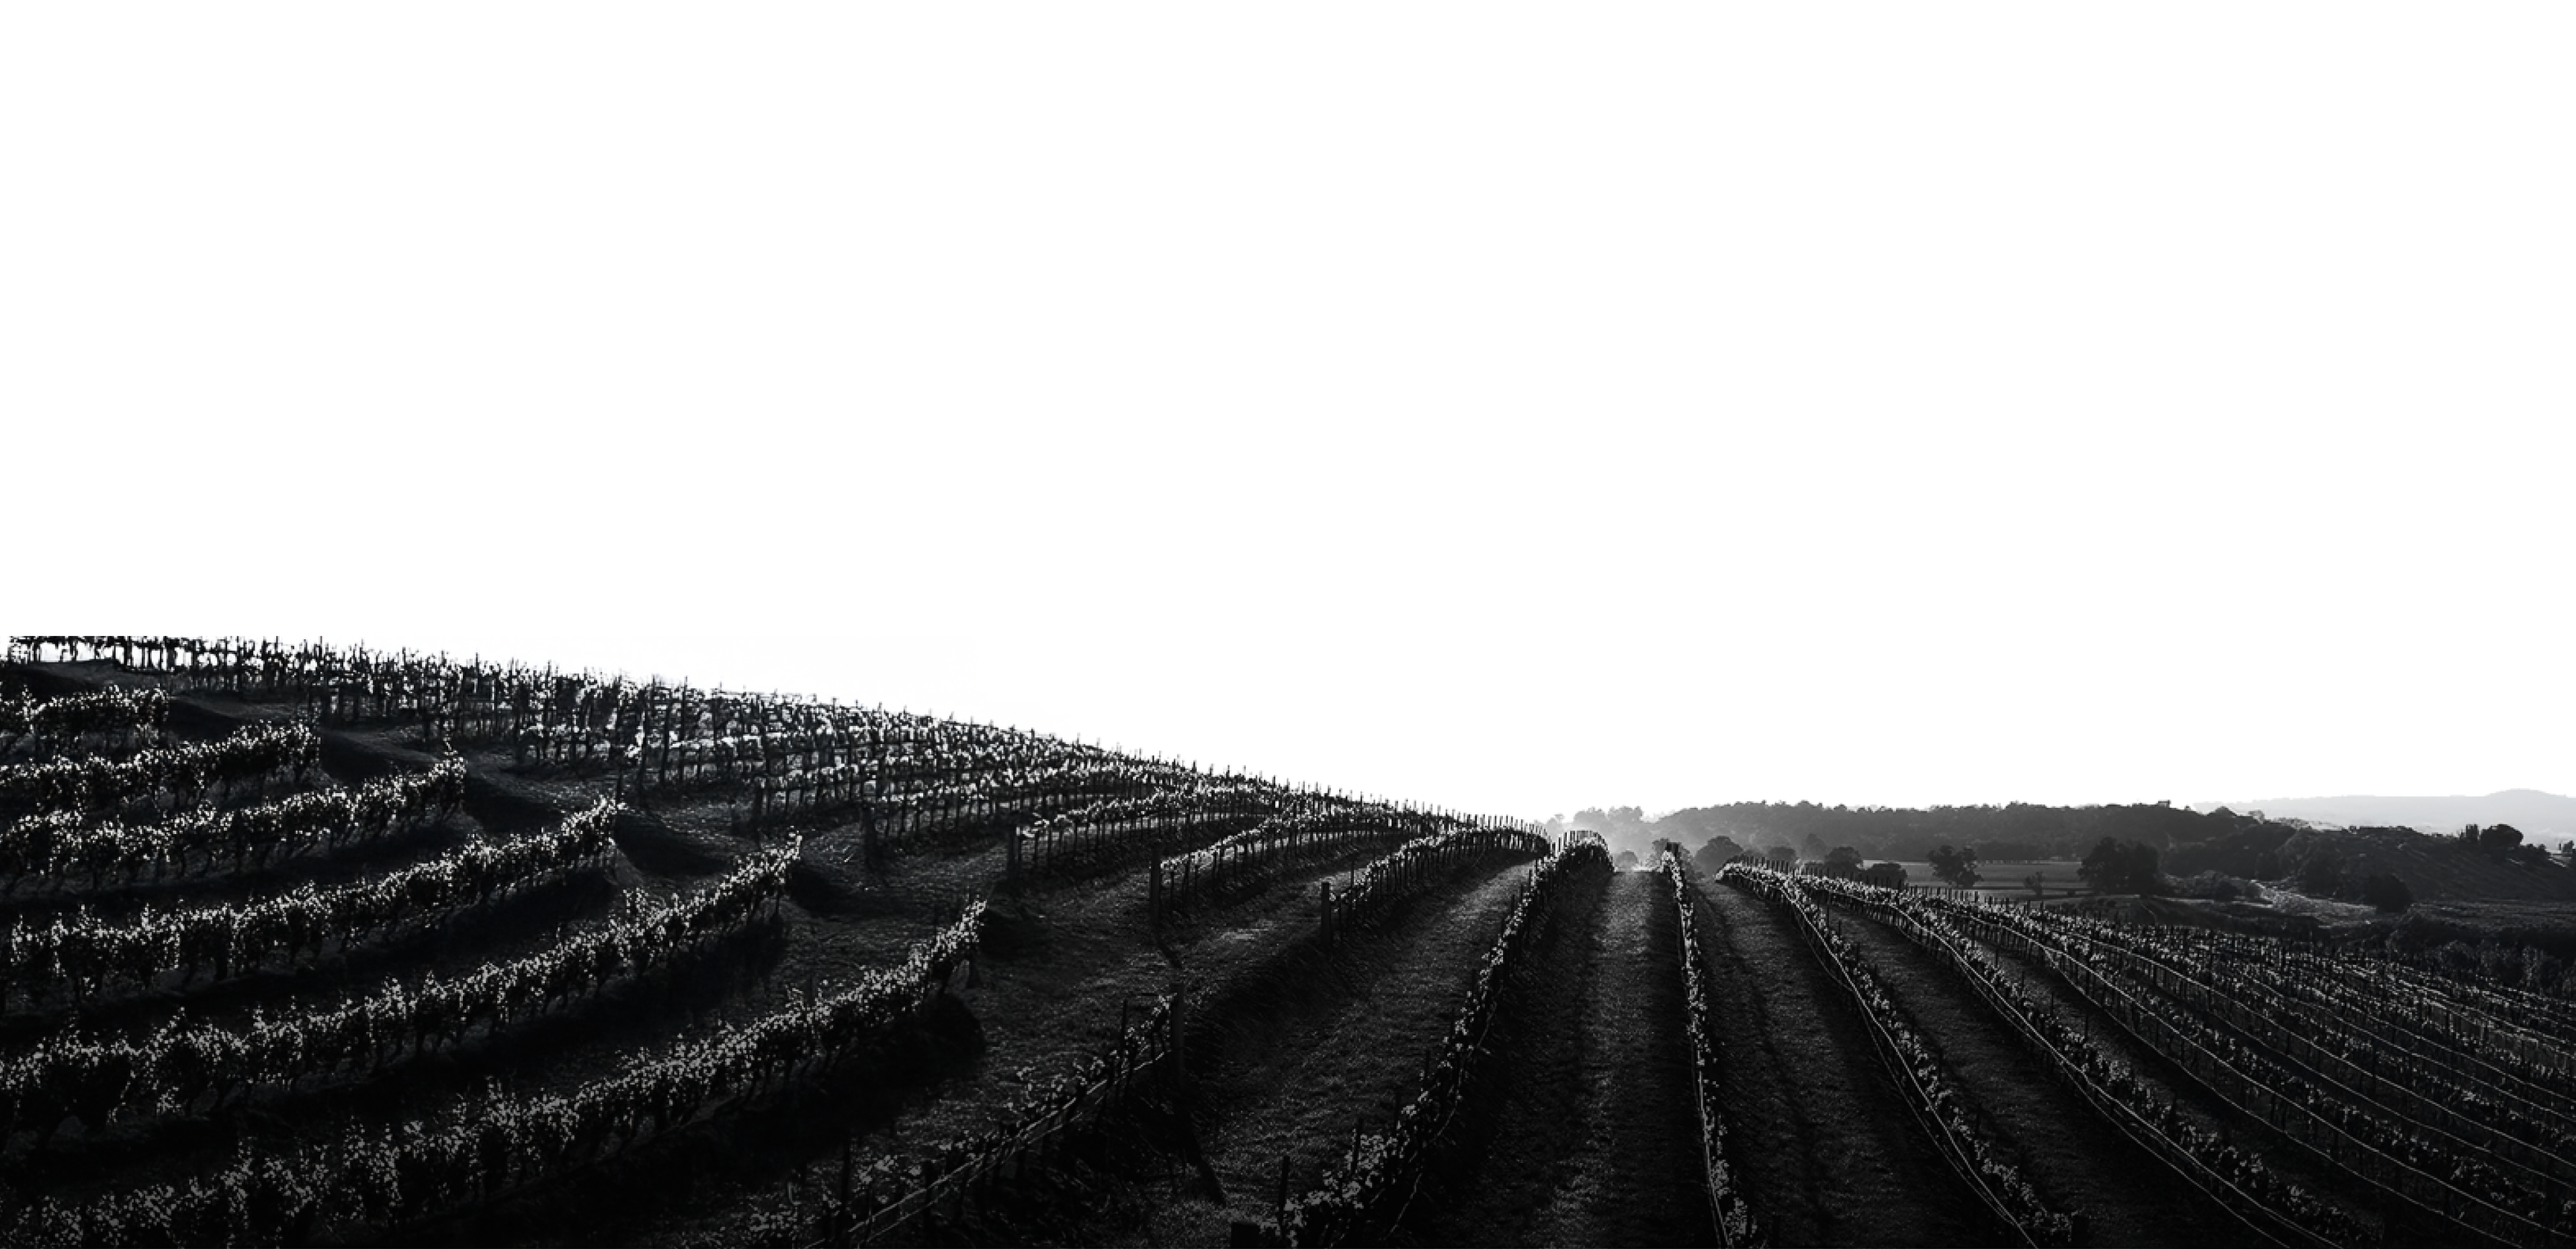
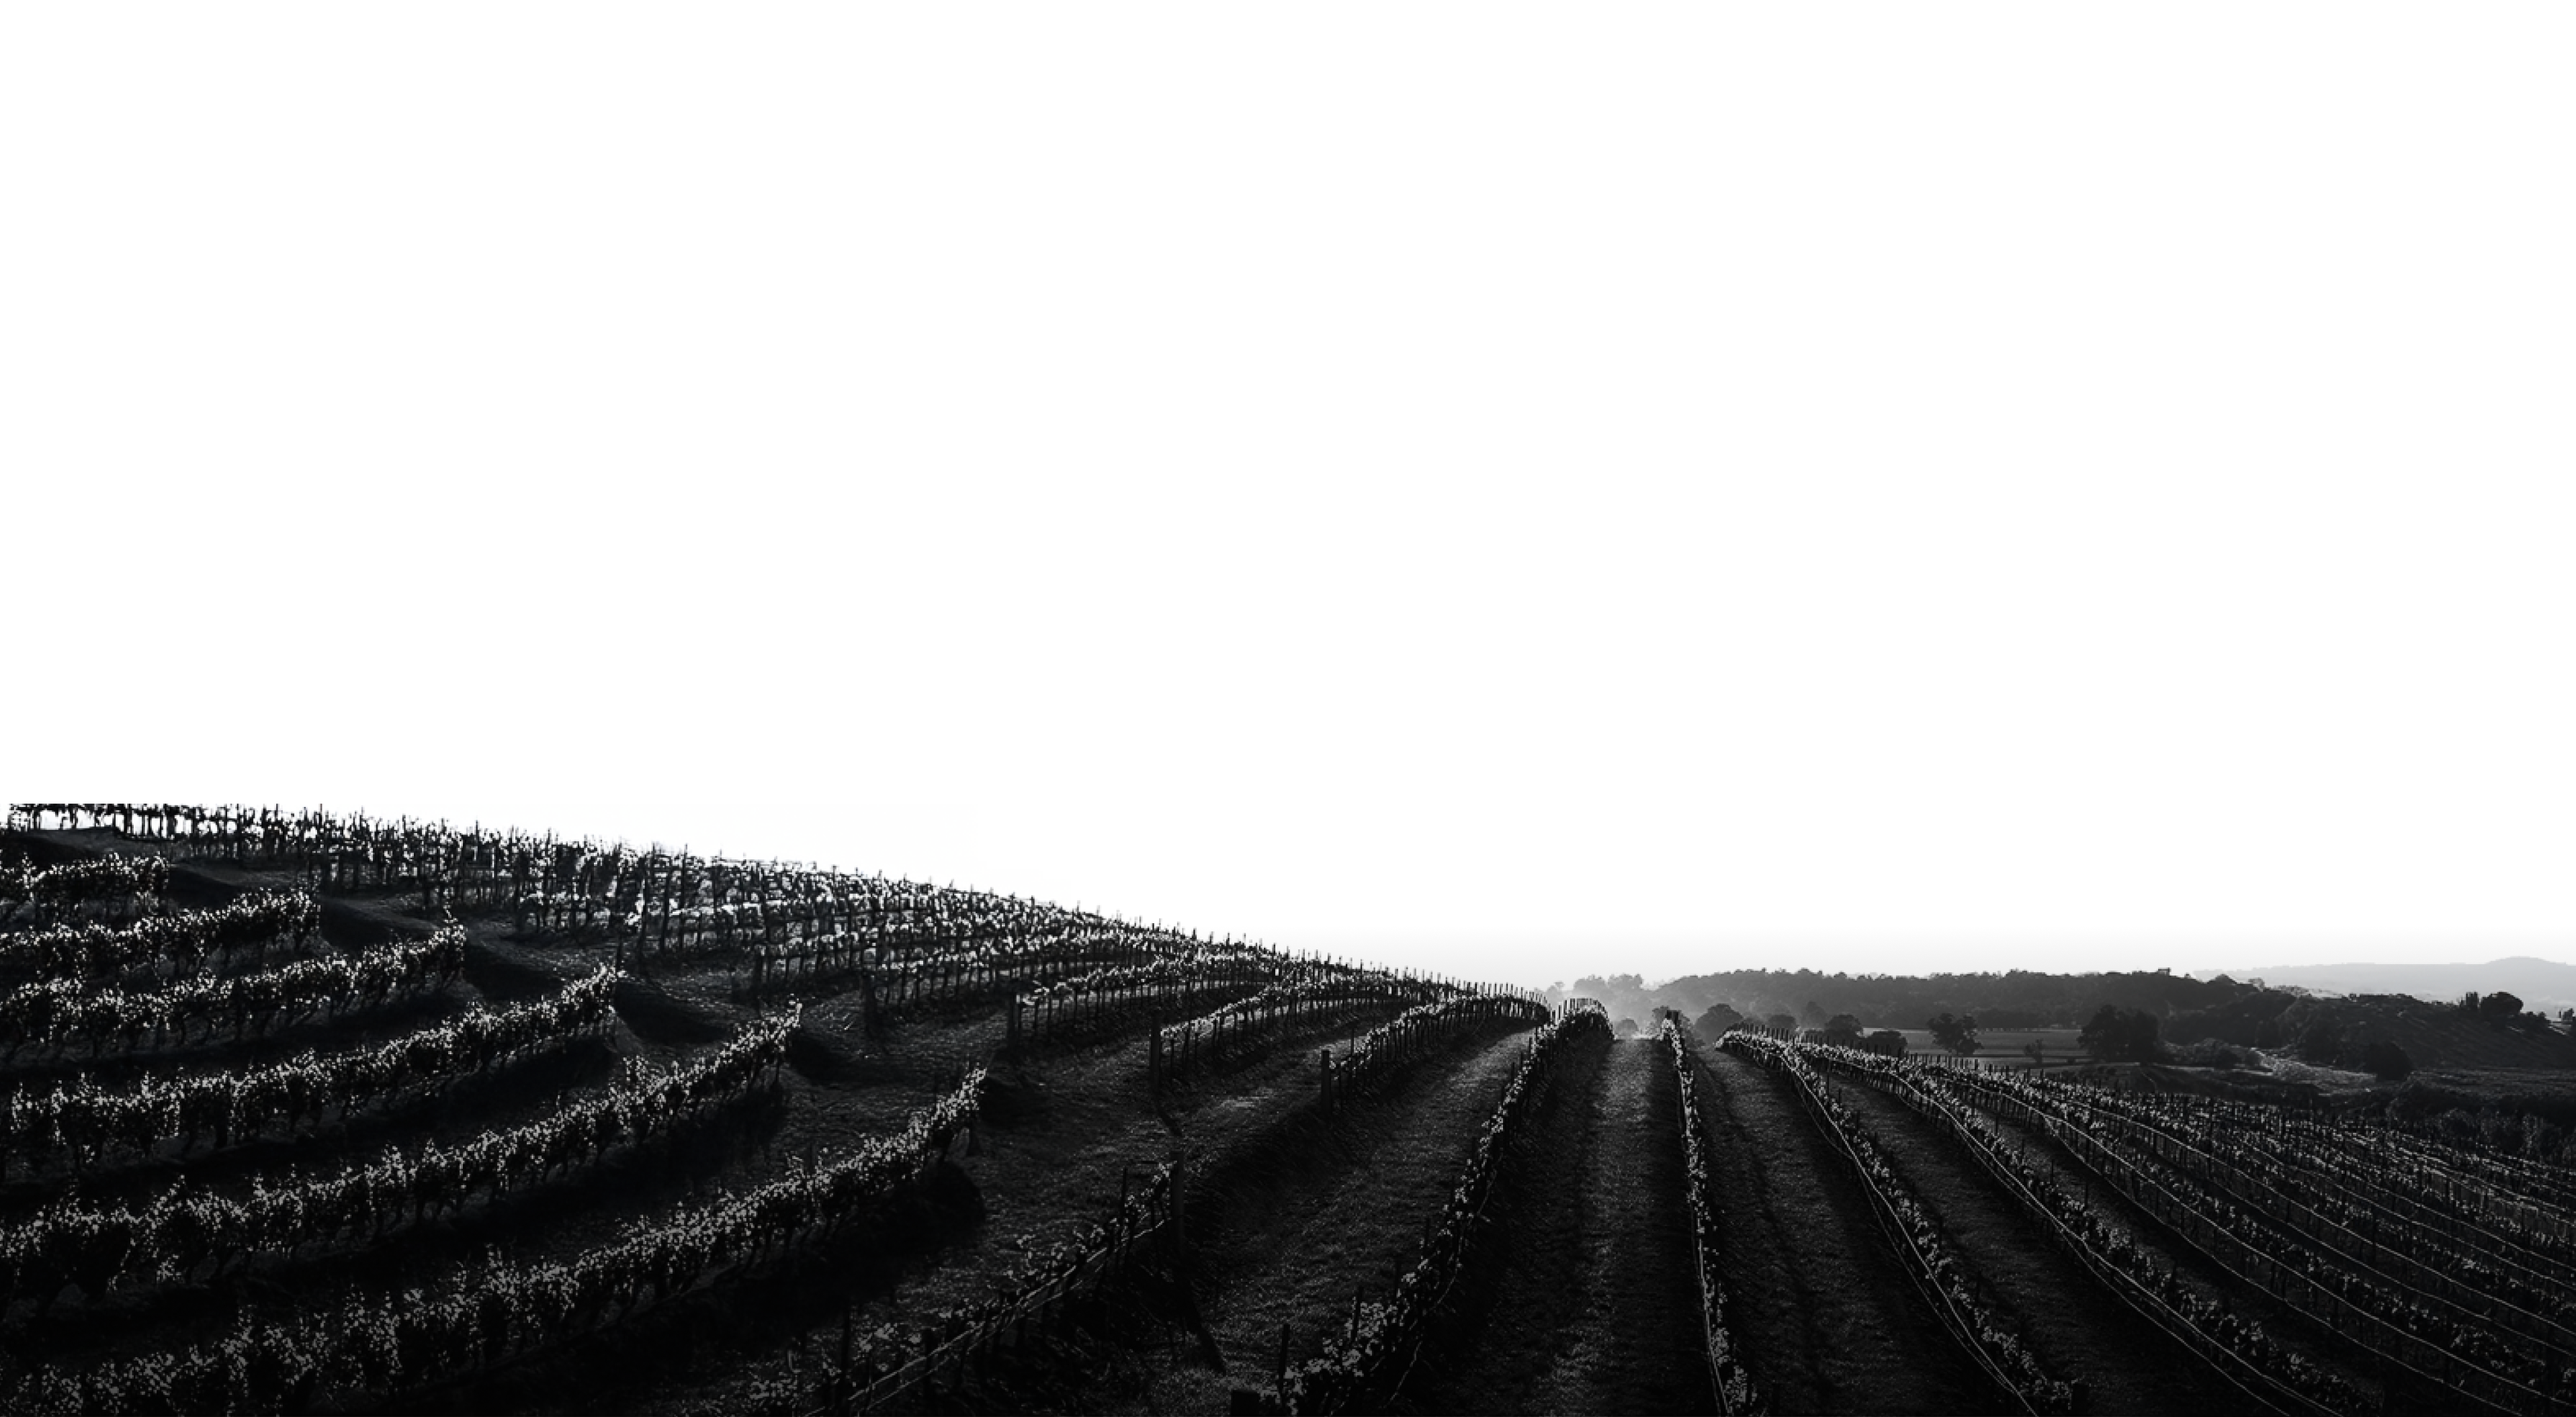
header bas fixed

Changed region(s): [[0.0, 0.4989, 1.0, 0.9978], [0.5897, 0.9355, 0.6208, 0.9667]]

diff --git a/src/index.html b/src/index.html
@@ -15,14 +15,24 @@
   </head>
   <body>
     <div class="site">
-      <section>
+      <section class="homepage">
         <div class="container">
           <div class="row">
-            <div class="col-12">Logo</div>
-            <div class="col-12">Vins natures</div>
-            <div class="col-7 offset-5">UNIQUE</div>
-            <div class="col-3 offset-9">un gôut sublime</div>
-            <div class="col-12">Header bas</div>
+            <div class="col-12 logo">
+              <img src="img/SVG/logo.svg" alt="logo du domaine de vin" />
+            </div>
+            <div class="col-12"><h1>Vins natures</h1></div>
+            <div class="col-7 offset-5"><h2>UNIQUE</h2></div>
+            <div class="col-3 offset-9">
+              <h3>un gôut <b>sublime</b></h3>
+            </div>
+            <div class="headerbas">
+              <div class="container">
+                <div class="row">
+                  <div class="col-12">Header bas</div>
+                </div>
+              </div>
+            </div>
           </div>
         </div>
       </section>
@@ -64,7 +74,11 @@
         <div class="container">
           <div class="row">
             <div class="col-6">titre</div>
-            <div class="col-8 offset-5">vigneron 1</div>
+          </div>
+          <div class="row">
+            <div class="col-1 offset-5">
+              <div class="vigneron">vigneron 1</div>
+            </div>
             <div class="col-10 offset-8">vigneron 2</div>
           </div>
         </div>
@@ -87,7 +101,7 @@
           </div>
         </div>
       </section>
-      <extends src="base-layout.html"></extends>
+      <extends src="base-layout-footer.html"></extends>
     </div>
 
     <script src="js/main.js" type="module"></script>

diff --git a/src/scss/main.scss b/src/scss/main.scss
@@ -95,3 +95,60 @@ section:nth-child(odd) {
 section:nth-child(even) {
   background-color: #fff6d5;
 }
+
+.homepage .logo {
+  padding-top: 32px;
+}
+
+.homepage h1 {
+  font-family: "Playfair Display";
+  font-size: 100px;
+  font-weight: 900;
+  padding-top: 55px;
+  line-height: 91.97%;
+}
+
+.homepage h2 {
+  color: var(--prim-green, #1c3c22);
+  font-family: "Swistblnk Moalang Melintang";
+  font-size: 170px;
+  line-height: 67.738%;
+  font-weight: 400;
+}
+
+.homepage h3 {
+  font-family: "Playfair Display";
+  font-size: 30px;
+  font-weight: 900;
+  padding-top: 37px;
+}
+
+.homepage h3 b {
+  font-weight: 900;
+  color: var(--prim-green, #1c3c22);
+}
+
+.headerbas {
+  position: fixed;
+  bottom: 0;
+  left: 0;
+  right: 0;
+}
+
+@mixin colwidth($multiplication) {
+  width: calc(
+    $multiplication * 100% + $multiplication * 24px - 12px + 100vw - 960px
+  );
+
+  @media (min-width: 1200px) {
+    width: calc(
+      $multiplication * 100% + $multiplication * 24px - 12px + 100vw - 1140px
+    );
+  }
+}
+
+.vigneron {
+  position: relative;
+  background-color: #1c3c22;
+  @include colwidth(8);
+}

diff --git a/src/base-layout-header.html b/src/base-layout-header.html
@@ -1,0 +1,5 @@
+<!-- <div class="container">
+  <div class="row"> -->
+
+<!-- </div>
+</div> -->
